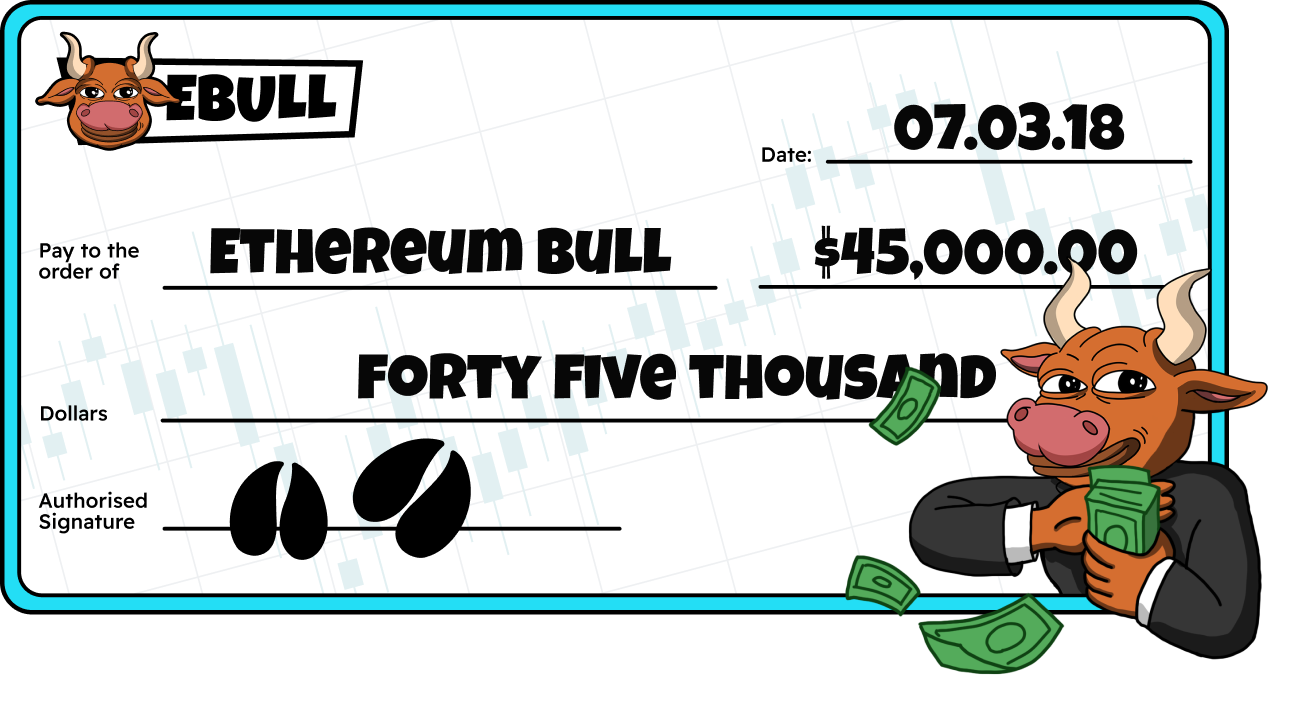
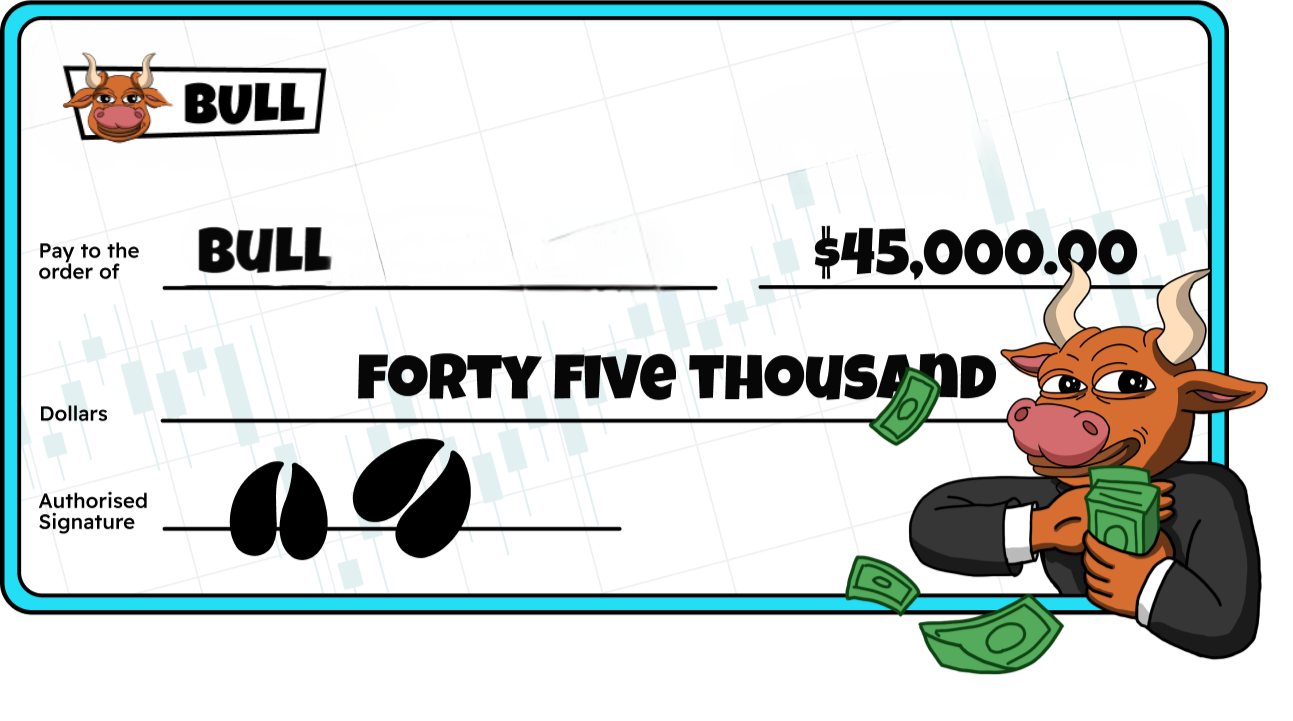
update

diff --git a/js/app.min.js b/js/app.min.js
@@ -1,1 +1,1 @@
[2 lines of base64/hex data omitted]

diff --git a/index.html b/index.html
@@ -2,7 +2,7 @@
 <html lang="en">
 
 <head>
-	<title>$EBULL - EtherEum is good</title>
+	<title>$BULL - EtherEum is good</title>
 	<meta charset="UTF-8" />
 	<meta name="format-detection" content="telephone=no" />
 	<style>
@@ -128,7 +128,7 @@
 	<meta name="twitter:card" content="summary" />
 	<meta name="twitter:site" content="@EthBullToken" />
 	<meta name="twitter:title" content="EBULL - EtherEum is good" />
-	<meta name="twitter:description" content="$EBULL is a meme coin that’s all about the bullish energy of the crypto market." />
+	<meta name="twitter:description" content="$BULL is a meme coin that’s all about the bullish energy of the crypto market." />
 	<meta name="twitter:image" content="https://pbs.twimg.com/profile_images/1826347954451451904/Iz2zFpJp_400x400.jpg" />
 
 	<meta name="robots" content="max-image-preview:large" />
@@ -139,7 +139,7 @@
 	<meta property="og:site_name" content="EBULL" />
 	<meta property="og:url" content="https://www.ethereumbull.com/" />
 	<meta property="og:title" content="EBULL - EtherEum is good" />
-	<meta name="description" content="$EBULL is a meme coin that’s all about the bullish energy of the crypto market." />
+	<meta name="description" content="$BULL is a meme coin that’s all about the bullish energy of the crypto market." />
 </head>
 
 <body>
@@ -191,8 +191,8 @@
 							<span>EtherEum is good</span>
 						</h1>
 						<div class="hero__actions">
-							<a target="_blank" href="https://www.dextools.io/app/en/ether/pair-explorer/0x1f4ef1f8441caac34f58fb0cba813dd2b09fec63?t=1724264885853" class="hero__button hero__button--white"><img src="img/dext.webp" alt="logo" /></a>
-							<a target="_blank" href="https://dexscreener.com/ethereum/0x1f4eF1F8441Caac34F58fb0CBa813dD2B09FEC63" class="hero__button hero__button--white">
+							<a target="_blank" href="https://www.dextools.io/app/en/ether/pair-explorer/0x03F63D1a9FdBF7eEA3E344e34B511DfF7Af6966b" class="hero__button hero__button--white"><img src="img/dext.webp" alt="logo" /></a>
+							<a target="_blank" href="https://dexscreener.com/ethereum/0x03F63D1a9FdBF7eEA3E344e34B511DfF7Af6966b" class="hero__button hero__button--white">
 								<img src="img/dex.png" alt="logo" />
 							</a>
 							<a target="_blank" href="#" class="hero__button hero__button--white">
@@ -211,7 +211,7 @@
 						<div data-watch-threshold="0.6" data-watch-once data-watch class="about__content">
 							<h2 class="about__title">About</h2>
 							<div class="about__text">
-								$EBULL is a meme coin that’s all about the bullish energy of
+								$BULL is a meme coin that’s all about the bullish energy of
 								the crypto market. It’s built on Ethereum, and yes, even
 								Vitalik gave it a nod—how’s that for a seal of approval?
 								There’s no fancy utility here, just a straightforward symbol
@@ -292,10 +292,6 @@
 					</div>
 					<div class="donation__why-cards" data-watch-threshold="0.8" data-watch-once data-watch>
 						<div class="donation__why-card">
-							<h3>Owens 1.5%</h3>
-							<p>Vitalik Buterin Holds 1.5% of Token Supply</p>
-						</div>
-						<div class="donation__why-card">
 							<h3>The ETH bottom</h3>
 							<p>
 								Vitalik hasnt bull posted since solana was under $10 -
@@ -331,7 +327,7 @@
 							<div class="every__items">
 								<div class="every__item">
 									<img src="img/05.png" alt="Logo" />
-									<span>$EBULL - Redacted </span>
+									<span>$BULL - Redacted </span>
 								</div>
 								<div class="every__item">
 									<img src="img/06.png" alt="Logo" />
@@ -375,12 +371,6 @@
 									<span>3</span>
 									<span>Charity (Big part of Vitaliks vision for memes)</span>
 								</div>
-								<div class="features__how-item">
-									<span>4</span>
-									<span>Vitlaik owns 1.5% of supply, he will sell it, donate to
-										charity
-									</span>
-								</div>
 							</div>
 						</div>
 					</div>
@@ -389,7 +379,7 @@
 					<div data-watch-threshold="0.6" data-watch-once data-watch class="features__herader">
 						<h2 class="features__title">ROADMAP</h2>
 						<div class="features__text">
-							$EBULL is for the community, by the community. It’s all about
+							$BULL is for the community, by the community. It’s all about
 							good vibes, memes, and having a laugh while riding the market
 							waves. We’re planning some epic events, and who knows—maybe even
 							a cheeky airdrop or two. No complex promises, just a fun coin
@@ -427,14 +417,14 @@
 				<div class="tokenomics__container">
 					<div data-watch-threshold="0.6" data-watch-once data-watch class="tokenomics__header">
 						<h2 class="tokenomics__title">
-							$EBULL <br />
+							$BULL <br />
 							Tokeno- <br />
 							mics
 						</h2>
 						<div class="tokenomics__number">
 							<div class="tokenomics__number-body">
 								<div class="tokenomics__number-text">
-									0x712973127...75F4f44
+									0x03F63D1a9...966b
 								</div>
 								<button type="button" class="tokenomics__number-button copy-ca-btn">
 									<img src="img/icons/copy.svg" alt="Icon" />
@@ -447,7 +437,7 @@
 					</div>
 					<div data-watch-threshold="0.6" data-watch-once data-watch class="tokenomics__items">
 						<div class="tokenomics__item item-tokenomics">
-							<div class="item-tokenomics__title">$EBULL</div>
+							<div class="item-tokenomics__title">$BULL</div>
 							<div class="item-tokenomics__text">Symbol</div>
 						</div>
 						<div class="tokenomics__item item-tokenomics">
@@ -455,7 +445,7 @@
 							<div class="item-tokenomics__text">Tax</div>
 						</div>
 						<div class="tokenomics__item item-tokenomics">
-							<div class="item-tokenomics__title">Burned Forever</div>
+							<div class="item-tokenomics__title">Locked</div>
 							<div class="item-tokenomics__text">Liquidity Pool</div>
 						</div>
 					</div>
@@ -466,11 +456,11 @@
 					<div data-watch-threshold="0.5" data-watch-once data-watch class="follow__body">
 						<div class="follow__body-info">
 							<h2 class="follow__body-title">
-								Follow $EBULL on social media
+								Follow $BULL on social media
 							</h2>
 							<div class="follow__body-actions">
 								<a target="_blank" href="https://t.me/OfficialEbullToken" class="follow__body-button button button-black"><img src="img/icons/telegram.svg" alt="Telegram Icon" /><span>Telegram</span></a>
-								<a target="_blank" href="https://x.com/EthBullToken" class="follow__body-button button button-black"><img src="img/icons/x.svg" alt="Twitter Icon" /><span>Twitter/X</span></a>
+								<a target="_blank" href="https://x.com/Bulloneth_x" class="follow__body-button button button-black"><img src="img/icons/x.svg" alt="Twitter Icon" /><span>Twitter/X</span></a>
 								<a target="_blank" href="https://x.com/vitalikbuterin" class="follow__body-button button button-black"><img src="img/icons/x.svg" alt="Twitter Icon" /><span>Follow Vitalik</span></a>
 							</div>
 						</div>
@@ -493,13 +483,13 @@
 							<a target="_blank" href="https://t.me/OfficialEbullToken" class="footer__social-item button">
 								<img src="img/tel.svg" alt="Icon" />
 							</a>
-							<a target="_blank" href="https://x.com/EthBullToken" class="footer__social-item button">
+							<a target="_blank" href="https://x.com/Bulloneth_x" class="footer__social-item button">
 								<img src="img/x.svg" alt="Icon" />
 							</a>
-							<a target="_blank" href="https://dexscreener.com/ethereum/0x1f4eF1F8441Caac34F58fb0CBa813dD2B09FEC63" class="footer__social-item button">
+							<a target="_blank" href="https://dexscreener.com/ethereum/0x03F63D1a9FdBF7eEA3E344e34B511DfF7Af6966b" class="footer__social-item button">
 								<img src="img/dex.svg" alt="Icon" />
 							</a>
-							<a target="_blank" href="https://www.dextools.io/app/en/ether/pair-explorer/0x1f4ef1f8441caac34f58fb0cba813dd2b09fec63?t=1724264885853" class="footer__social-item button">
+							<a target="_blank" href="https://www.dextools.io/app/en/ether/pair-explorer/0x03F63D1a9FdBF7eEA3E344e34B511DfF7Af6966b" class="footer__social-item button">
 								<img src="img/dex2.svg" alt="Icon" />
 							</a>
 						</div>
